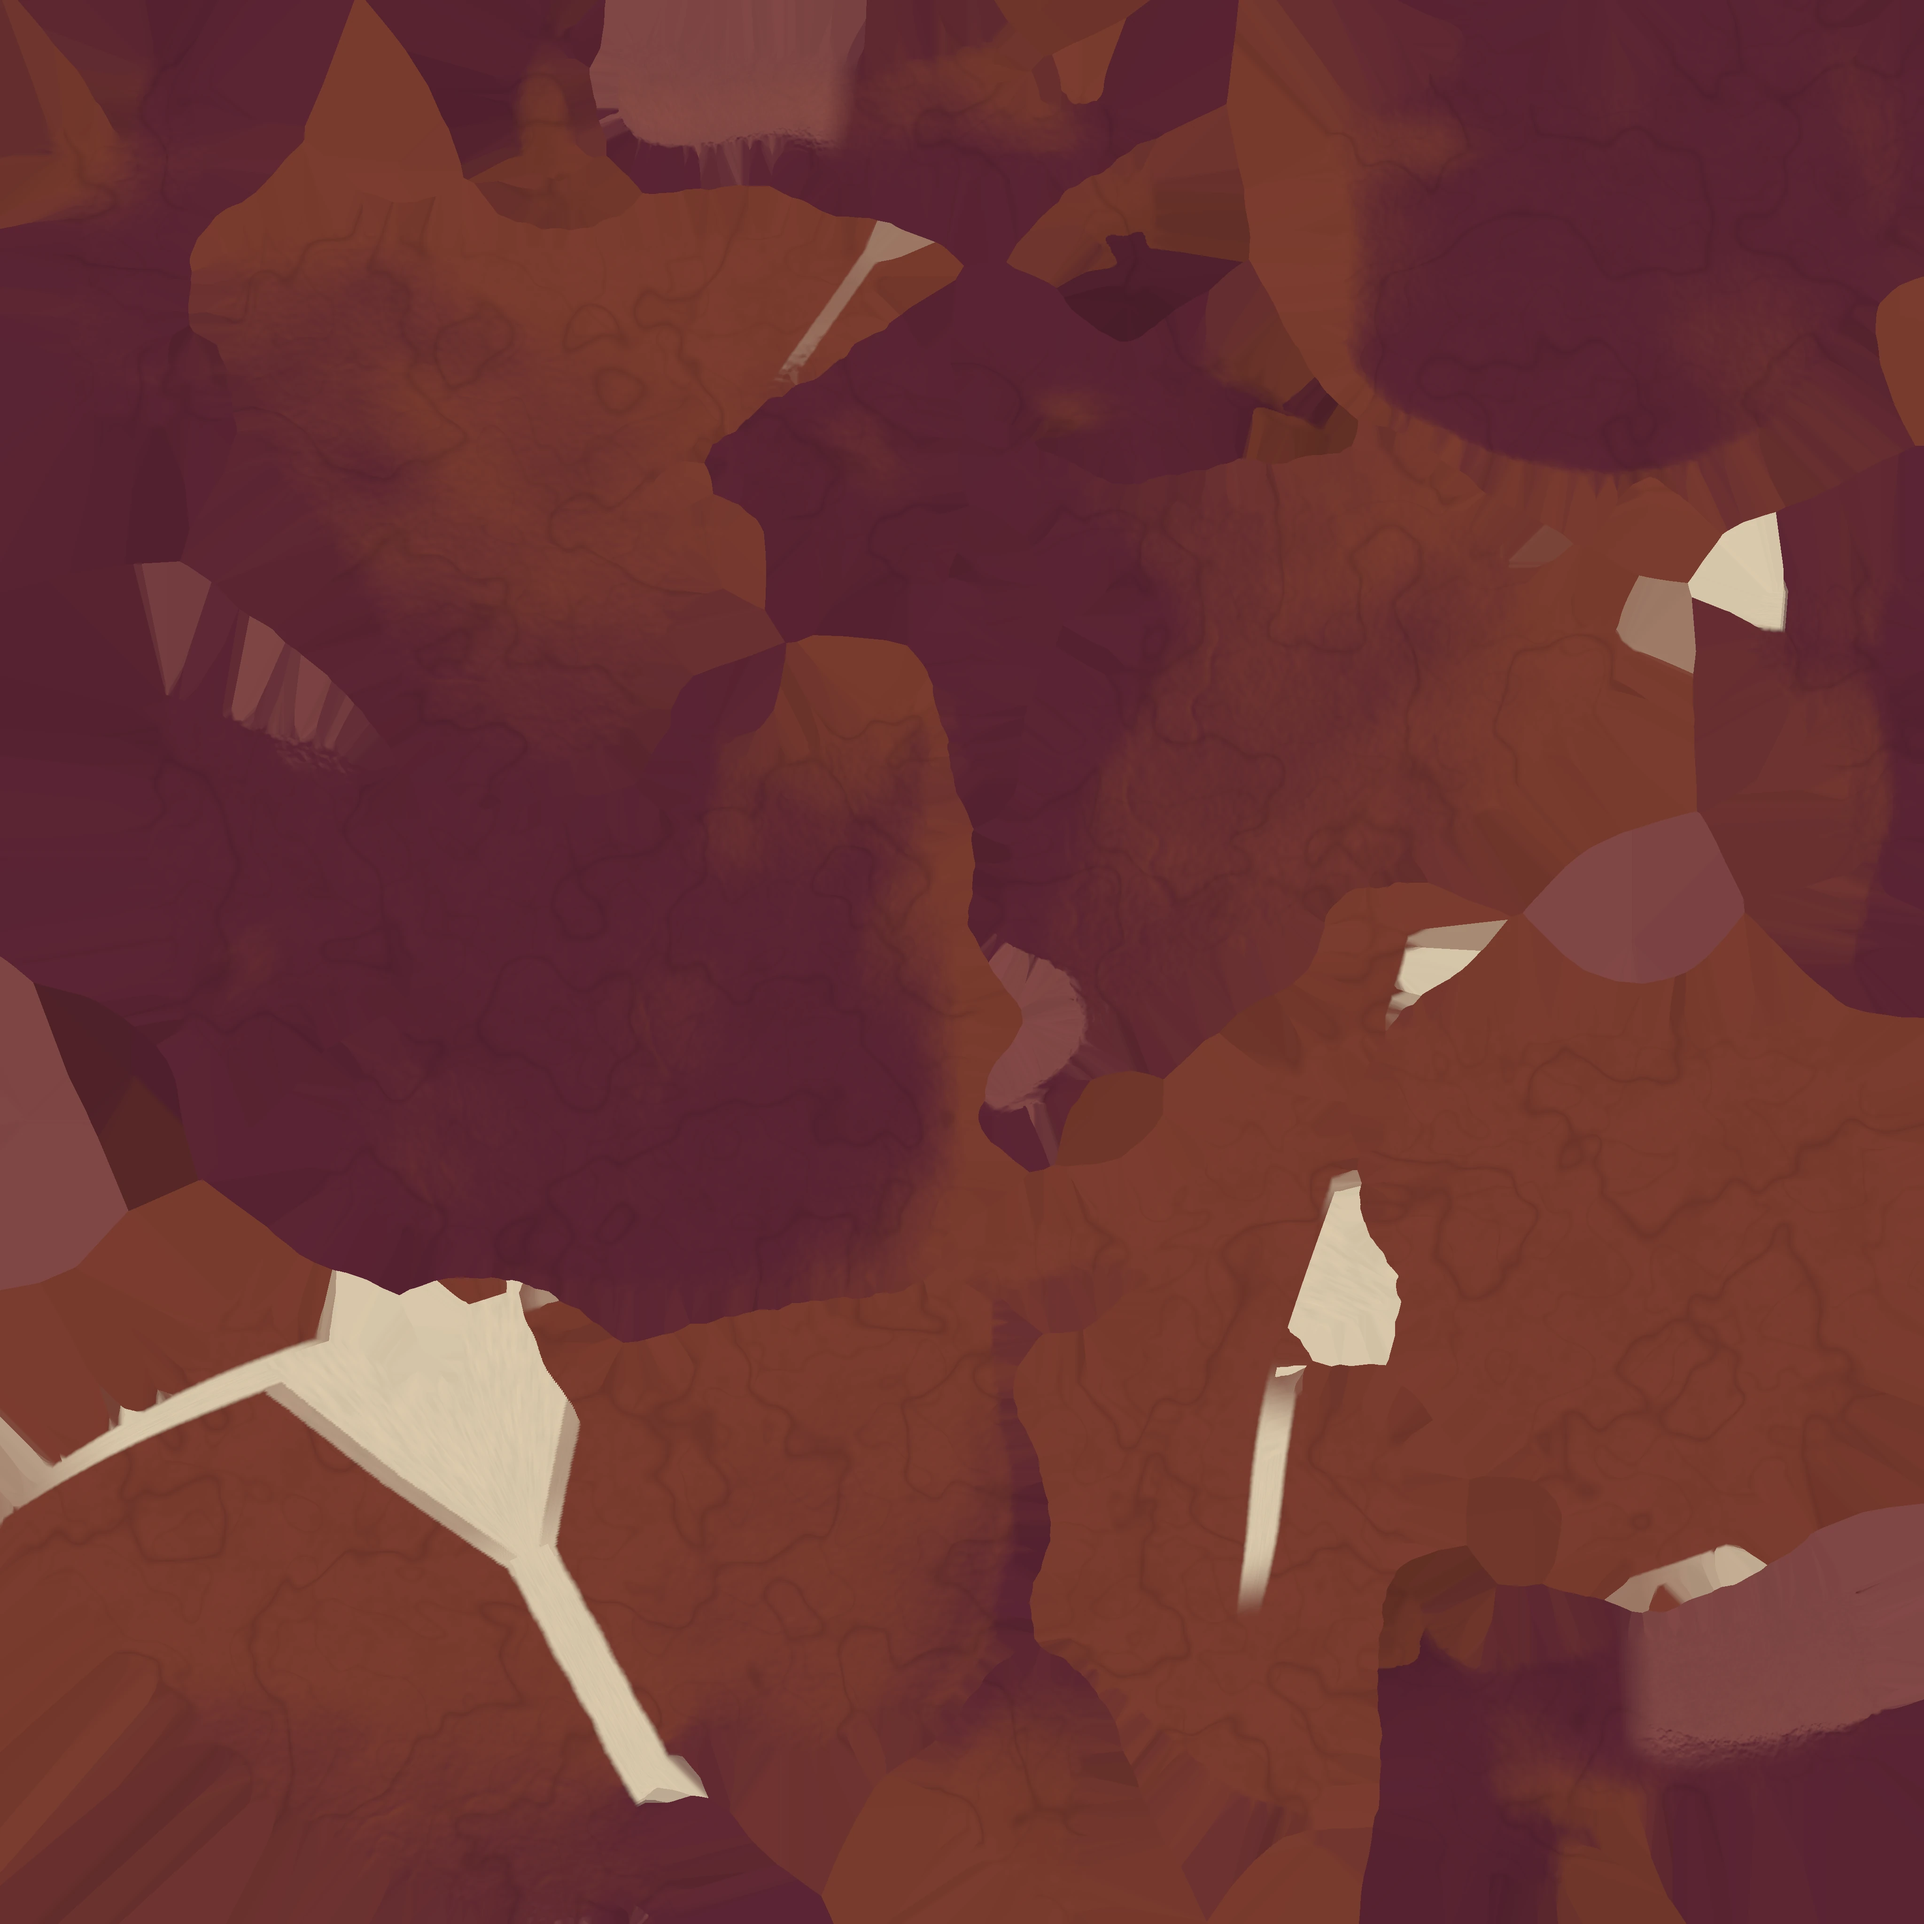
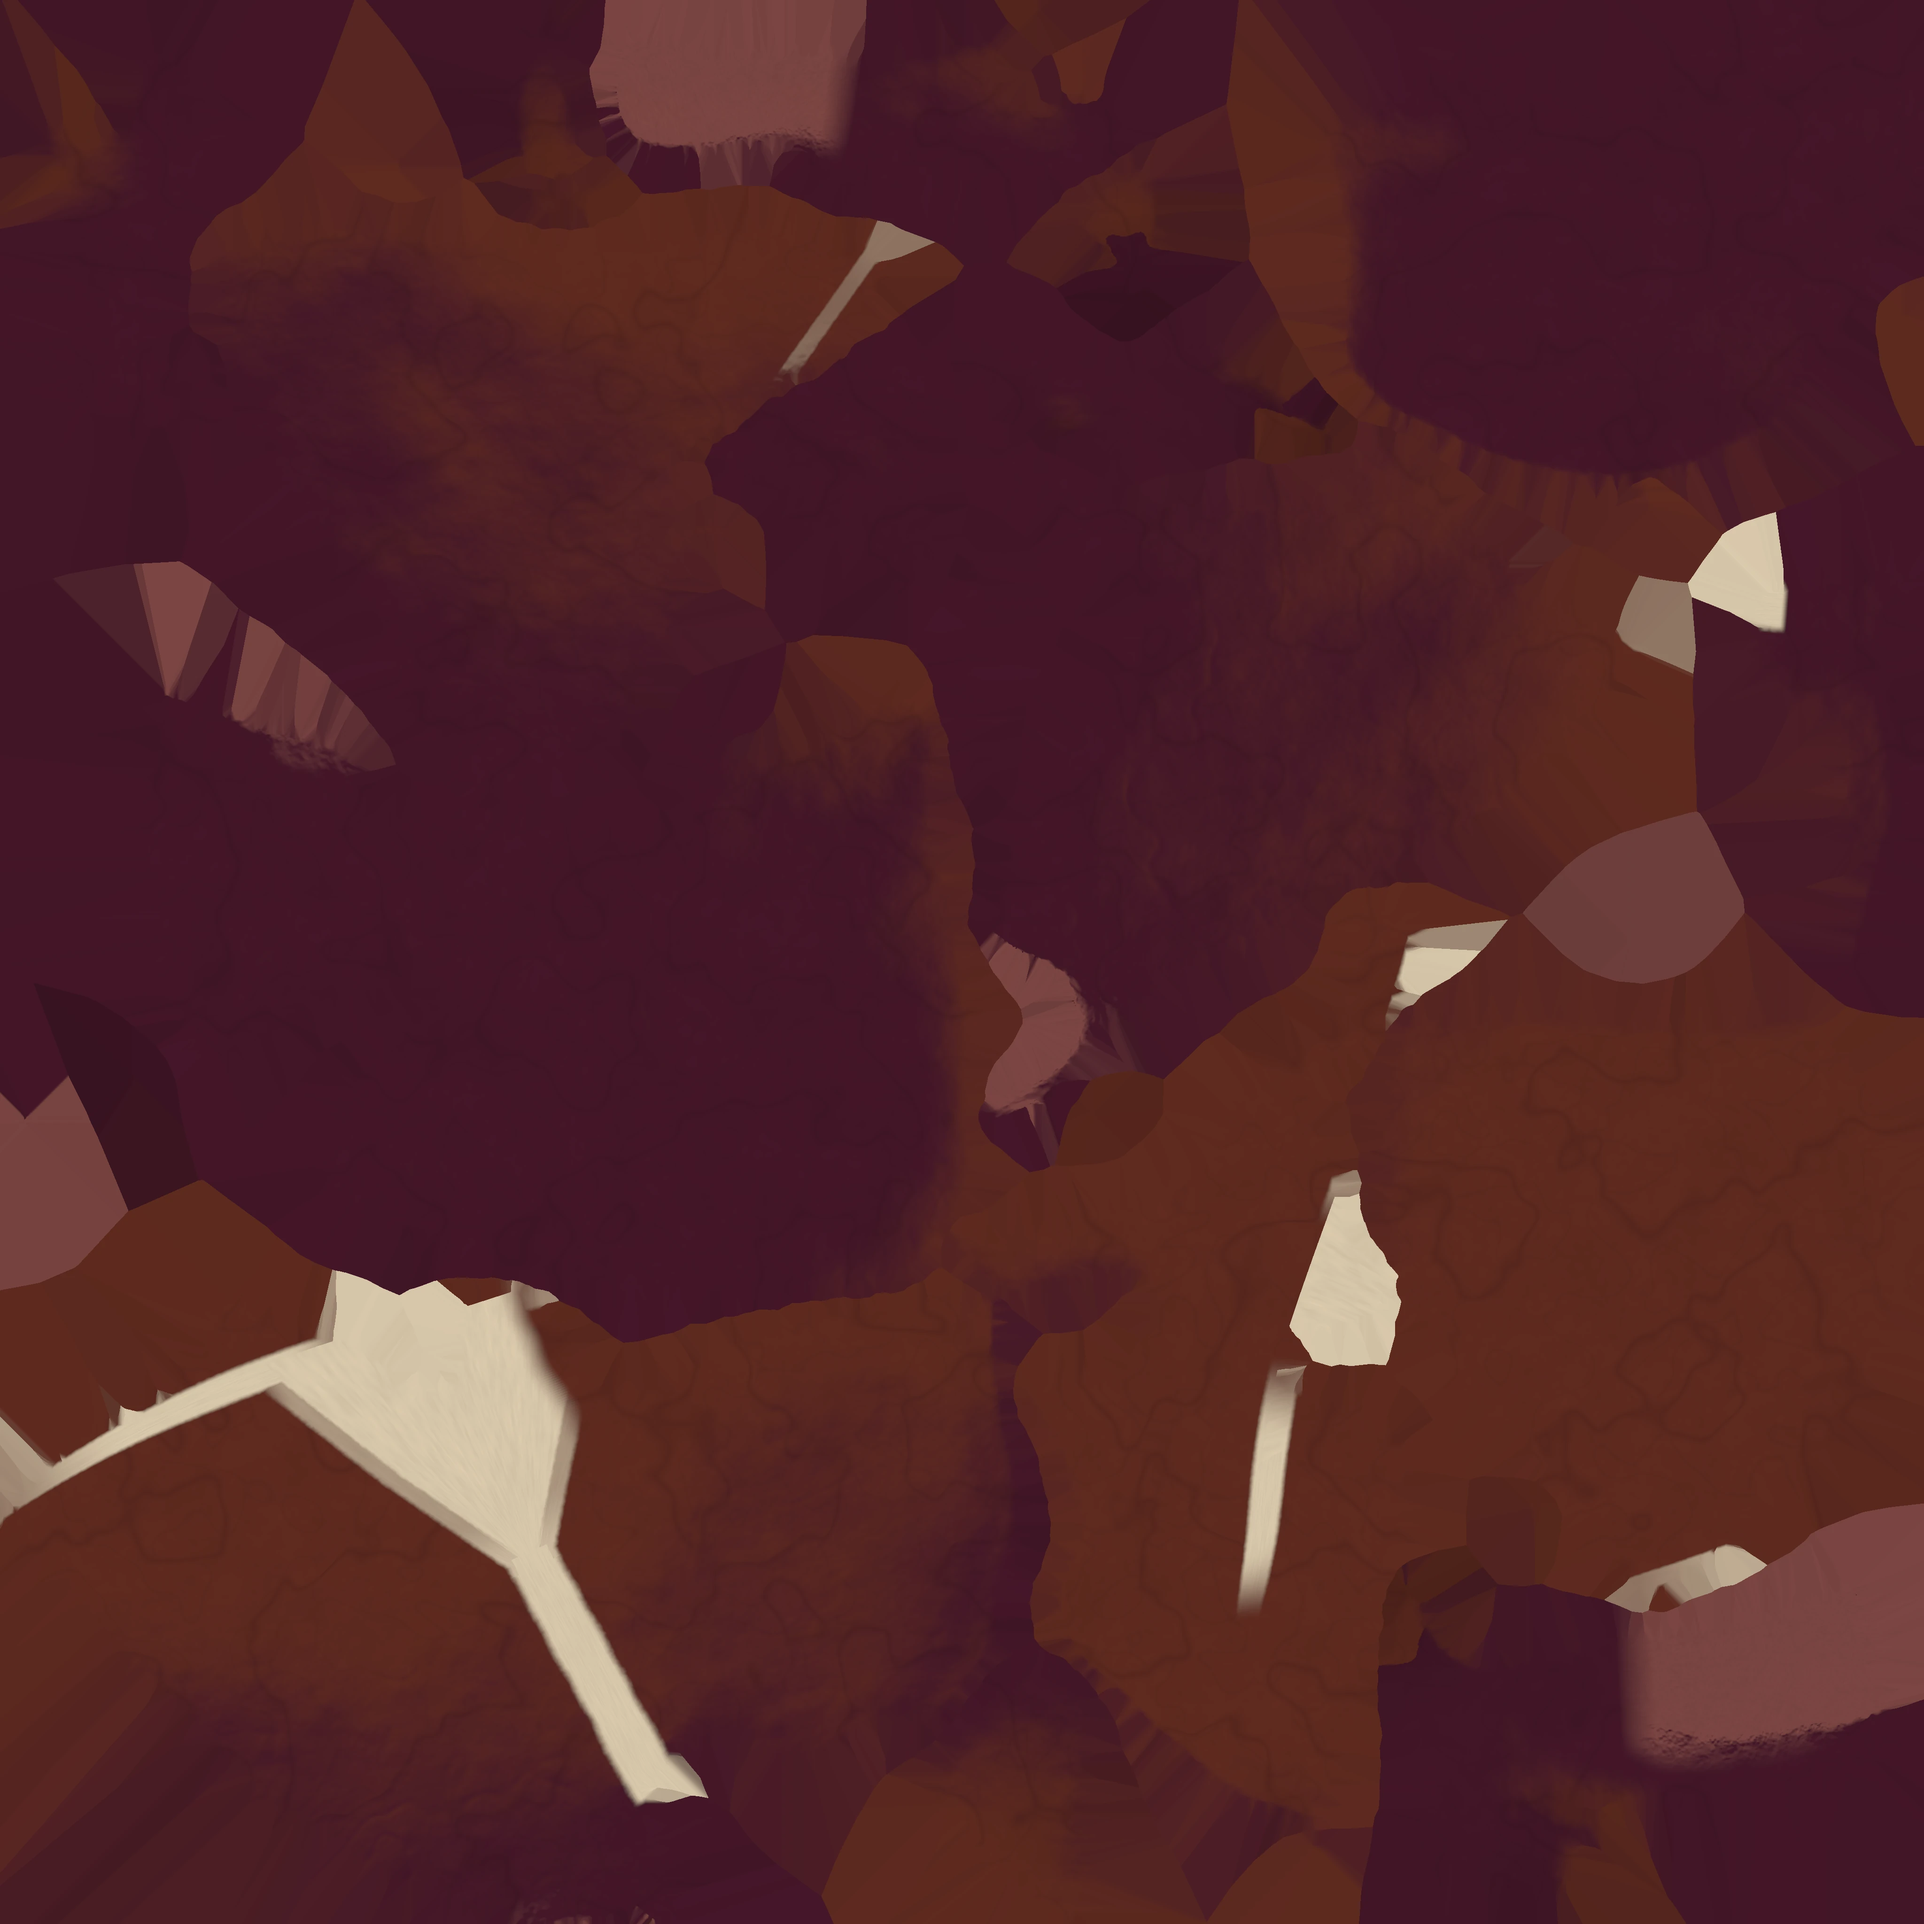
Task 10: liver material - deeper colours, higher transition, clearer nodularity (liver re-bake)
Colours: superior #5E2A1F, inferior #431628 (v44 #7A3B2E / #5A2433). The superior-to-inferior transition sits 0.25
higher in normal-y with the same smoothstep width (1.15) and noise drift, so the blend profile is unchanged.
Nodularity: soft ~6-8 mm rounded domes (Gaussian of the distance to warped Worley F1 nodule centres, shallow valleys, no
cell grooves - a first F2-F1 version read as a cellular net and was dropped), +/-0.3 mm; the finest capsular grain lowered
(0.0017 -> 0.0011) against shimmer; normal map mip-mapped and anisotropic as before. Falciform: edges anti-aliased (the
fan's width was stepped by the 0.5 mm centreline samples, sawing its edge; arc length is now continuous; relief tapers
over 3 mm inside the outline; the on-surface test is smooth). The page's reference mean albedo (pathology luminance)
is the tissue-only mean of the new maps, #4E2024 (previously #6A3130; falciform and gallbladder bed excluded).
noise3.py gains worley_f1. Full liver re-bake; baselines rebaselined.

Claude-Session: https://claude.ai/code/session_01TEBj2TbyxDuz7GskHVfMKD

diff --git a/src/atlas.js b/src/atlas.js
@@ -330,7 +330,7 @@ function skin(m,kind,rest=false){
   m.envMapIntensity=(SKIN_ENV[kind]??1)*R36.env; m.userData.skinKind=kind;
   const U={tSkin:{value:SKIN_TEX}, uSkS:{value:new THREE.Vector3(...k.S)}, uSkK:{value:new THREE.Vector4(...k.K)},
            uSkK2:{value:new THREE.Vector3(...k.K2)}, uSkVein:{value:new THREE.Color(k.vein)}, uSkRim:{value:new THREE.Color(k.rim).multiplyScalar(0.22)}, uSkLob:{value:1}, uSkDbg:{value:0},
-           tLvA:{value:null}, tLvO:{value:null}, tOrgO:{value:null}, uLvTis:{value:new THREE.Color(C.tissue)}, uLvMean:{value:new THREE.Color(0x6A3130)}, uLvNod:{value:0}};
+           tLvA:{value:null}, tLvO:{value:null}, tOrgO:{value:null}, uLvTis:{value:new THREE.Color(C.tissue)}, uLvMean:{value:new THREE.Color(0x4E2024)}, uLvNod:{value:0}};
   m.userData.skin=U;
   if(rest) m.defines=Object.assign(m.defines||{},{SKIN_REST:''});
   if(lite) m.defines=Object.assign(m.defines||{},{SKIN_LITE:''});

diff --git a/pipeline/bake44.py b/pipeline/bake44.py
@@ -29,7 +29,7 @@ import numpy as np
 
 ROOT = Path(__file__).resolve().parent.parent
 sys.path.insert(0, str(Path(__file__).resolve().parent))
-from noise3 import fbm, worley_f2f1
+from noise3 import fbm, worley_f2f1, worley_f1
 
 DATA = ROOT / 'data/liver-data.json'
 MM = 69.9757
@@ -161,7 +161,19 @@ def liver_height(X):
     g = fbm(wx * 2.6, 3, seed=7); allow = np.clip((fbm(X * 1.1, 2, seed=8) + 0.05) / 0.35, 0, 1)
     h += -0.0022 * np.exp(-(g / 0.045) ** 2) * allow
     h += 0.0009 * liver_veins(X)                                                         # veins, faintly raised
-    return h + 0.0017 * fbm(X * 52.0, 3, seed=11)                                        # coarse capsular grain
+    h += 0.0080 * liver_nodules(X)                                                       # v45 (Task 10): surface nodularity
+    return h + 0.0011 * fbm(X * 52.0, 3, seed=11)                                        # capsular grain (v44 0.0017: shimmered)
+
+
+def liver_nodules(X):
+    """v45: soft surface nodularity, ~6-8 mm: rounded domes (a Gaussian of the distance to jittered, domain-warped nodule
+    centres, Worley F1) with shallow valleys between them, in [0, 1] x a slow amplitude drift. No grooves between cells
+    (the F2-F1 crease field read as a cellular net). Sized to read at the default distance; the normal map is mip-mapped,
+    so there is no finer-than-a-pixel detail to shimmer"""
+    w = X + 0.035 * np.stack([fbm(X * 4.0, 2, seed=401), fbm(X * 4.0 + 2.7, 2, seed=402), fbm(X * 4.0 + 5.9, 2, seed=403)], -1)
+    f1 = worley_f1(w * 9.0, seed=405); dome = np.exp(-(f1 / 0.36) ** 2)
+    amp = np.clip(0.65 + 0.5 * fbm(X * 1.6, 2, seed=407), 0.3, 1.0)
+    return (dome - 0.5) * amp
 
 
 def stage_high(organ, cfg):
@@ -309,7 +321,8 @@ def fossa_fields(X, nrm=None):
 FALC_COL = '#DDCDAF'   # v45: pale cream / off-white fibrous tissue, clearly paler than the liver
 
 
-LIVER_SUP, LIVER_INF = '#7A3B2E', '#5A2433'   # v44 (Task 8): browner diaphragmatic surface, deeper purple-red visceral surface
+LIVER_SUP, LIVER_INF = '#5E2A1F', '#431628'   # v45 (Task 10): deeper brown superior, deeper purple inferior (v44 #7A3B2E / #5A2433)
+TRANS_SHIFT = 0.25   # v45: the superior→inferior transition sits 0.25 higher in normal-y (same smoothstep width, 1.15)
 
 
 def compose_liver(X, ao, cav, curv, thick, onrm=None):
@@ -323,7 +336,7 @@ def compose_liver(X, ao, cav, curv, thick, onrm=None):
     sup, inf, dark = lin(LIVER_SUP), lin(LIVER_INF), lin('#2E1018')
     ny = onrm[:, 1] if onrm is not None else np.zeros(len(X))
     lf = ev(lambda x: fbm(x * 1.3, 3, seed=91))                                    # ~5 cm drift of the transition
-    t = np.clip((ny + 0.50 * lf + 0.15 - (-0.55)) / (0.60 - (-0.55)), 0, 1); wgt = t * t * (3 - 2 * t)
+    t = np.clip((ny + 0.50 * lf + 0.15 - TRANS_SHIFT - (-0.55)) / (0.60 - (-0.55)), 0, 1); wgt = t * t * (3 - 2 * t)
     col = inf[None] * (1 - wgt)[:, None] + sup[None] * wgt[:, None]
     m2 = ev(lambda x: fbm(x * 6.0, 4, seed=33)); m3 = ev(lambda x: fbm(x * 30.0, 2, seed=45))
     vn = ev(liver_veins); wet = ev(lambda x: fbm(x * 2.2, 3, seed=81))
@@ -372,6 +385,10 @@ def stage_compose(organ, cfg):
     args = (X, g['ao'][cov], g['cav'][cov], g['curv'][cov], np.clip(th, 0, 1))
     col, rough, wet = compose_pancreas(*args) if organ == 'pancreas' else compose_liver(*args, onrm=on[cov] if on is not None else None)
     mean = col.mean(0); print('compose: mean albedo (linear)', mean.round(4), 'sRGB #%02X%02X%02X' % tuple((mean ** (1 / 2.2) * 255 + 0.5).astype(int)), flush=True)
+    if organ == 'liver':   # v45: the page's reference (uLvMean) is the tissue mean, without the falciform and the gallbladder bed
+        sub = slice(None, None, 20); Xs = X[sub]; Ns = on[cov][sub] if on is not None else None   # subsample (memory)
+        tis = (falciform().fields(Xs, Ns)[0] < 0.01) & (fossa_fields(Xs, Ns)[0] < 0.01)
+        mt = col[sub][tis].mean(0); print('compose: liver tissue mean albedo sRGB #%02X%02X%02X (uLvMean)' % tuple((mt ** (1 / 2.2) * 255 + 0.5).astype(int)), flush=True)
     A = np.zeros((R, R, 3), np.float32); A[cov] = col
     ORM = np.zeros((R, R, 3), np.float32); ORM[cov] = np.stack([g['ao'][cov], rough, wet], 1)
     _, ind = distance_transform_edt(~cov, return_indices=True)            # bleed charts into the gutters (no mip halos)

diff --git a/pipeline/falc45.py b/pipeline/falc45.py
@@ -95,21 +95,21 @@ class Falciform:
         m = np.zeros(n); rel = np.zeros(n); fib = np.zeros(n); kind = np.zeros(n)
         dist, i = self.tree.query(X, distance_upper_bound=W_B + COR_L + 0.3)
         near = np.isfinite(dist); ii = i[near]; Xn = X[near]
-        s = self.s[ii]; D = X[near] - self.C[ii]
+        D = X[near] - self.C[ii]; s = self.s[ii] + np.einsum('ij,ij->i', D, self.T[ii])   # continuous (sample steps sawed the edge)
         d = np.einsum('ij,ij->i', D, self.A[ii]); h = np.einsum('ij,ij->i', D, self.N[ii])
-        onsurf = np.abs(h) < 0.06
-        if nrm is not None: onsurf &= np.einsum('ij,ij->i', nrm[near], self.N[ii]) > 0.2
+        ss = lambda x, e0, e1: np.clip((x - e0) / (e1 - e0), 0, 1) ** 2 * (3 - 2 * np.clip((x - e0) / (e1 - e0), 0, 1))
+        onsurf = 1 - ss(np.abs(h), 0.035, 0.07)                           # smooth (a hard cut here jagged the fan's edge)
+        if nrm is not None: onsurf = onsurf * ss(np.einsum('ij,ij->i', nrm[near], self.N[ii]), 0.10, 0.30)
         # irregular edges: slow wobble along the length and fine jitter
         wob = 1 + 0.10 * fbm(np.c_[s * 9, np.zeros_like(s), np.full_like(s, 3.1)], 2, seed=201)
         jit = 0.22 / MM * fbm(Xn * 60.0, 2, seed=203)                     # gently irregular, not serrated
-        ss = lambda x, e0, e1: np.clip((x - e0) / (e1 - e0), 0, 1) ** 2 * (3 - 2 * np.clip((x - e0) / (e1 - e0), 0, 1))
         # band
         w = W0 * wob + jit; u = np.abs(d) / w
-        band = (1 - ss(u, 0.80, 1.12)) * (1 - ss(s, self.sA + 1 / MM, self.sA + 5 / MM)) * ss(s, 0, 1.5 / MM)
+        band = (1 - ss(u, 0.74, 1.16)) * (1 - ss(s, self.sA + 1 / MM, self.sA + 5 / MM)) * ss(s, 0, 1.5 / MM)
         # fan
         f = np.clip((s - self.sA) / (self.sB - self.sA), 0, 1); wf = W0 + f * (W_B - W0) + jit; inF = (s >= self.sA - 2 / MM) & (s <= self.sB + 0.5 / MM)
-        ef = 1 - ss(np.abs(d), wf - 0.4 / MM, wf + 0.6 / MM)                               # inside the fan outline
-        lay = ef * (1 - ss(np.abs(d), wf - LAYER - 0.6 / MM, wf - LAYER + 0.6 / MM))         # the two diverging layers
+        ef = 1 - ss(np.abs(d), wf - 0.7 / MM, wf + 0.8 / MM)                               # inside the fan outline (v45 T10: softer, no sawtooth)
+        lay = ef * (1 - ss(np.abs(d), wf - LAYER - 0.8 / MM, wf - LAYER + 0.8 / MM))         # the two diverging layers
         fan = inF * np.maximum(lay, ef * (0.62 + 0.38 * (1 - ss(s, self.sA, self.sA + 12 / MM))))   # membrane thins away from the apex
         # coronary: a transverse band on the superior surface through the fan's base, running out beyond its corners
         Db = Xn - self.CB; t = Db @ self.TB; lat = np.abs(Db @ self.AB)
@@ -129,7 +129,9 @@ class Falciform:
         fv = np.select([k == 0, k == 3], [s * 14, lat * 14], (s - self.sA) * 14)
         fb = fbm(np.c_[fu, fv, np.full_like(fu, 7.7)], 3, seed=207)
         m[near] = mm; kind[near] = k; fib[near] = fb * (mm > 0)
-        rel[near] = mm * (hgt * prof + 0.05 / MM * fb)
+        # relief tapers over ~3 mm inside the fan's outline (a plateau ending in a 1.5 mm cliff stair-stepped in the normal map)
+        taper = np.where((k == 1) | (k == 2), 1 - ss(np.abs(d), wf - 3.5 / MM, wf + 0.5 / MM), 1.0)
+        rel[near] = mm * (hgt * prof * taper + 0.05 / MM * fb)
         return m, kind, fib, rel
 
 

diff --git a/pipeline/noise3.py b/pipeline/noise3.py
@@ -27,3 +27,11 @@ def worley_f2f1(X,seed=0):
                 c=I+np.array([dx,dy,dz]); fp=np.stack([_hash(c[...,0],c[...,1],c[...,2],seed+s) for s in (0,1,2)],-1)
                 d=np.linalg.norm(c+fp-X,axis=-1); m1=d<f1; f2=np.where(m1,f1,np.minimum(f2,d)); f1=np.where(m1,d,f1)
     return f2-f1
+def worley_f1(X,seed=0):
+    X=np.asarray(X,np.float64); I=np.floor(X).astype(np.int64); f1=np.full(X.shape[:-1],9.0)
+    for dx in (-1,0,1):
+        for dy in (-1,0,1):
+            for dz in (-1,0,1):
+                c=I+np.array([dx,dy,dz]); fp=np.stack([_hash(c[...,0],c[...,1],c[...,2],seed+s) for s in (0,1,2)],-1)
+                f1=np.minimum(f1,np.linalg.norm(c+fp-X,axis=-1))
+    return f1
